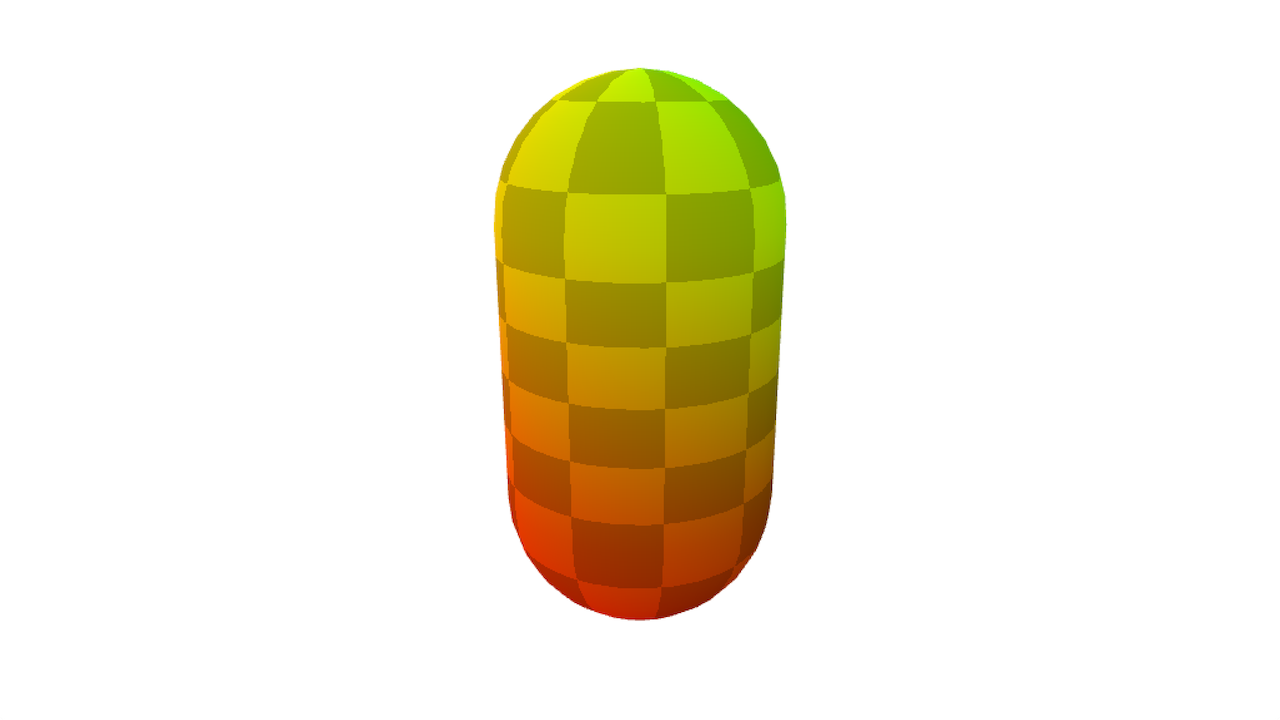
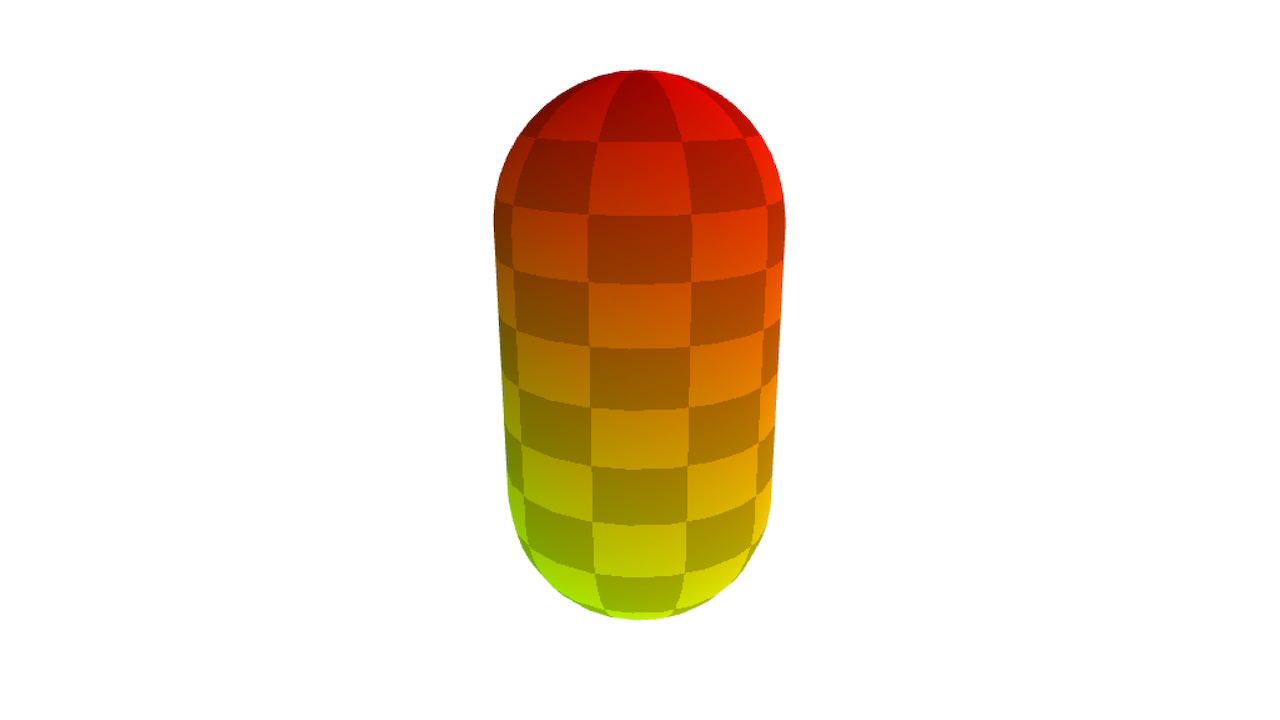
Updated screenshot

Changed region(s): [[0.375, 0.0917, 0.625, 0.8861]]

diff --git a/demo/main.js b/demo/main.js
@@ -28,7 +28,7 @@ Window.create({
 
         this.view = Mat4.create();
 
-        Mat4.lookAt(this.view, [0, 2, 3], [0, 0, 0], [0, 1, 0]);
+        Mat4.lookAt(this.view, [0, 1, 3], [0, 0, 0], [0, 1, 0]);
 
         ctx.setProjectionMatrix(this.projection);
         ctx.setViewMatrix(this.view);
